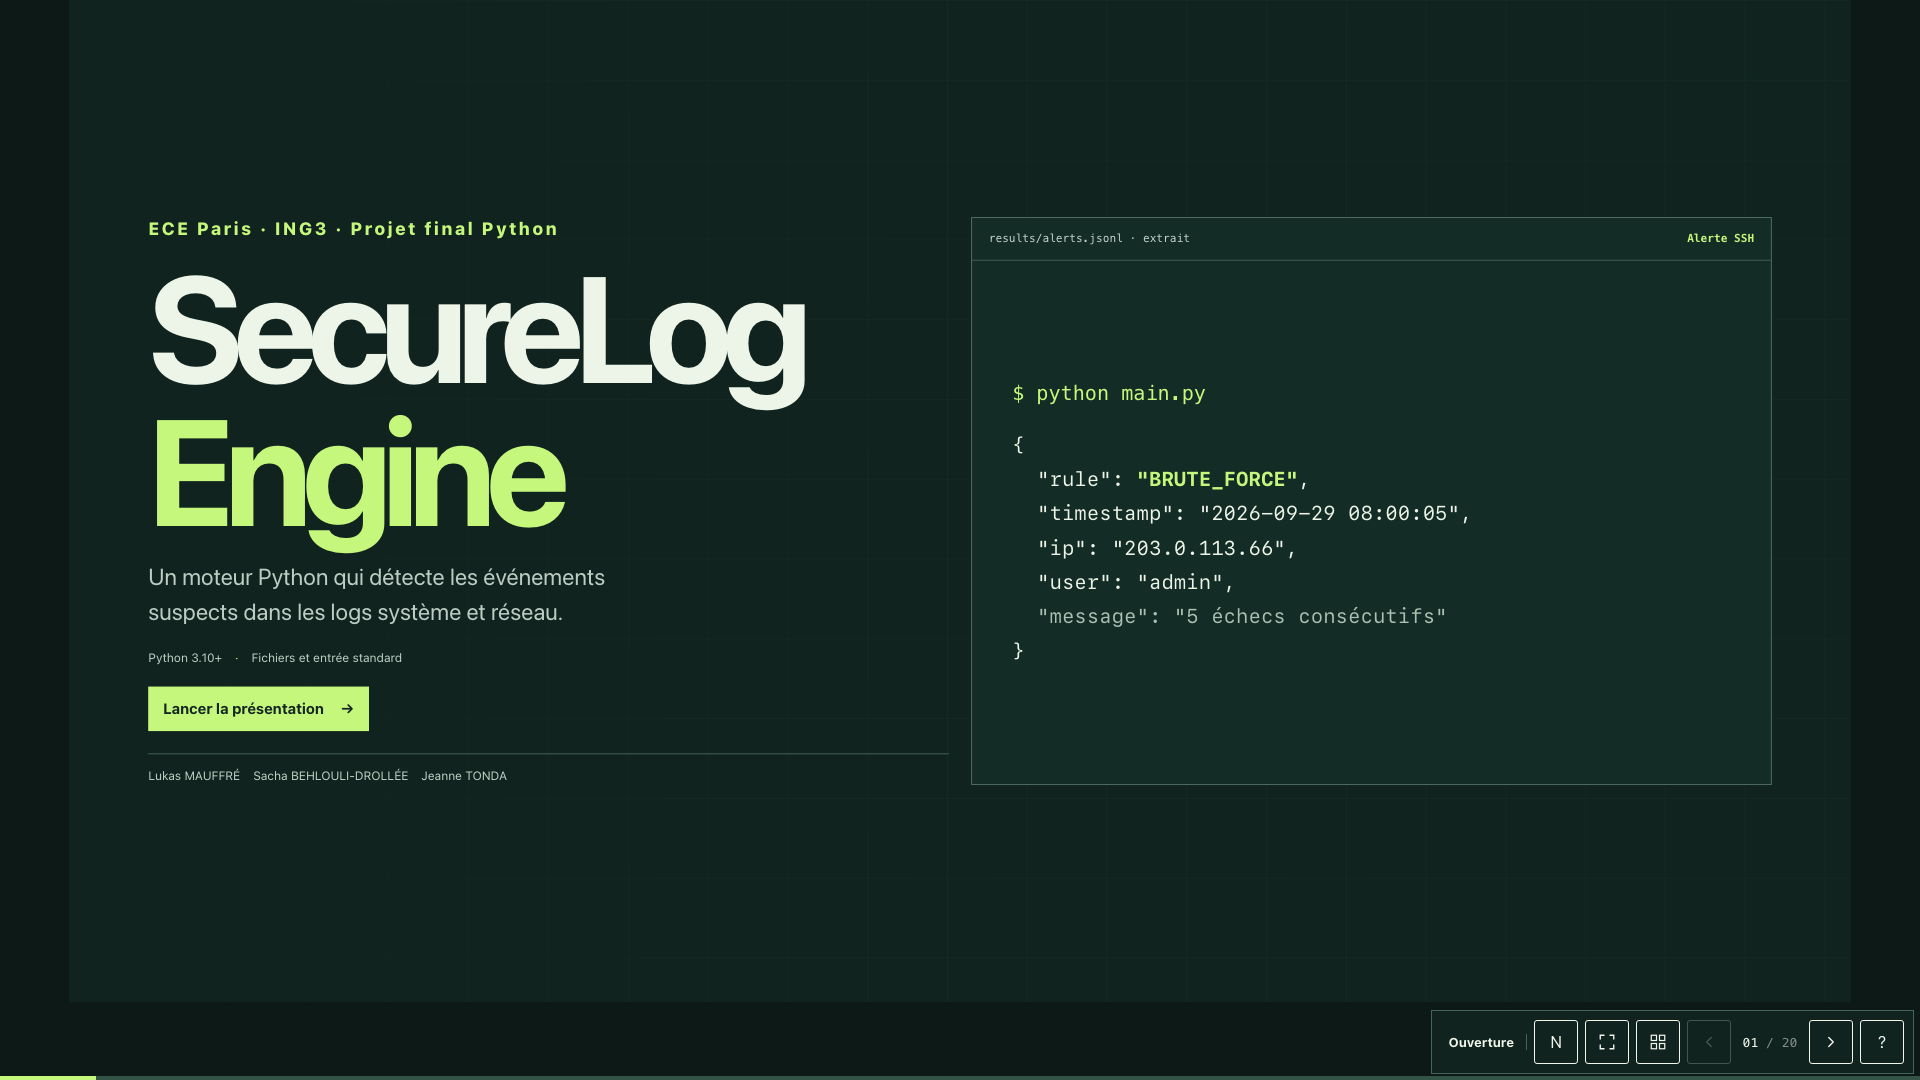
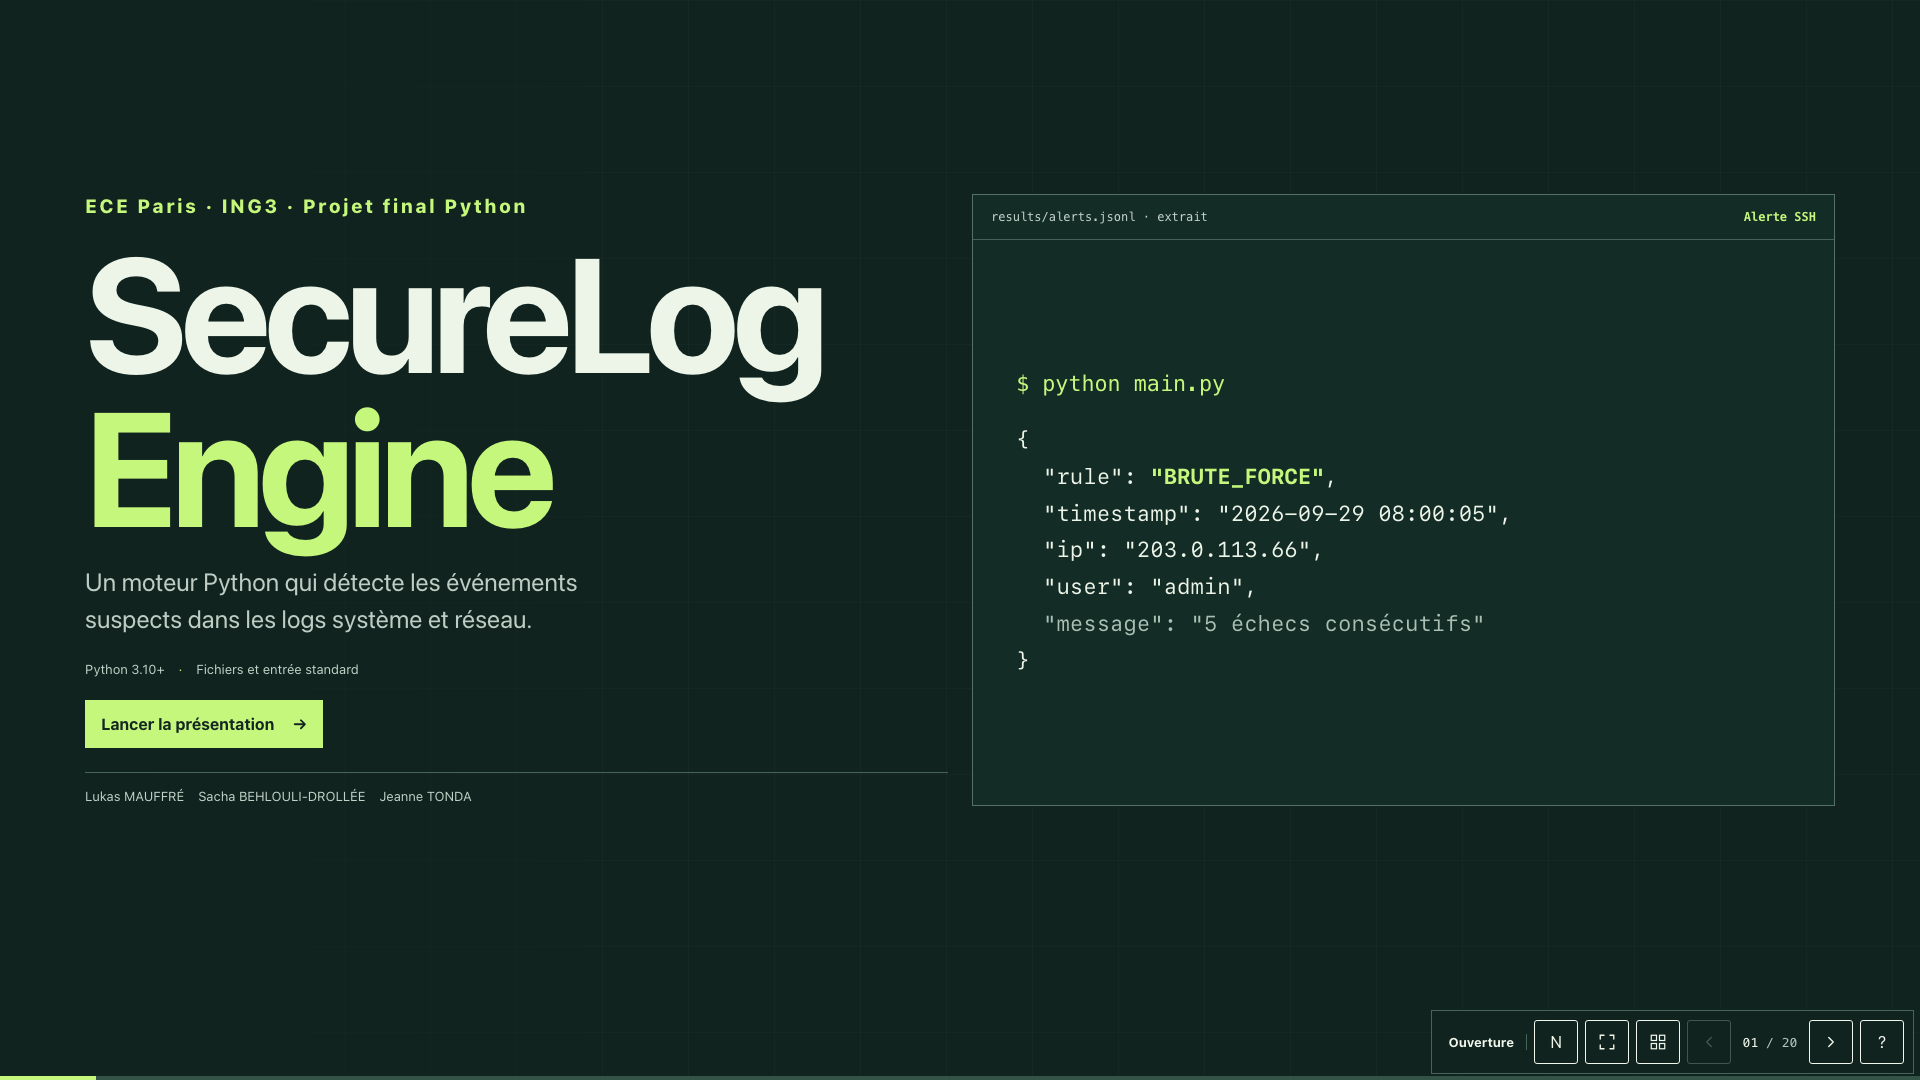
style: improve numeric legibility for projection

diff --git a/index.html b/index.html
@@ -478,6 +478,52 @@ html[data-motion] :is(.primary-action, button:not(:disabled)):active { transform
   .demo-fallback { display: block; }
 }
 
+/* Make sequence labels and totals readable from the back of the room. */
+:is(.pipe-index, .rule-count, .challenge-index) {
+  display: inline-grid;
+  place-items: center;
+  width: max-content;
+  min-width: 2.25em;
+  min-height: 1.8em;
+  padding-inline: .35em;
+  border: 1px solid #a6b7a8;
+  background: #dce7da;
+  color: #264538;
+  font: 750 19px/1 ui-monospace, monospace;
+}
+.dark :is(.pipe-index, .rule-count) {
+  border-color: #627e6e;
+  background: #203d32;
+  color: var(--lime);
+}
+.dark .pipe-final .pipe-index {
+  border-color: #7fa657;
+  background: #e1f9c8;
+  color: #264538;
+}
+.rules-grid > div { grid-template-columns: 48px minmax(0, 1fr); }
+.mode-number, .output-badge { font-size: 16px; letter-spacing: .075em; }
+.output-badge, .roadmap-layout b { color: #385645; }
+.roadmap-layout b { font: 700 18px/1.3 ui-monospace, monospace; }
+.challenge { padding: 25px 30px; }
+.challenge h3 { margin-block: 14px 8px; }
+.slide .challenge .solution { font-size: 18px; }
+.slide :is(.result-strip strong, .mega-test, .venn-big, .set-operators span,
+  .mem-value, .mem-columns b, .demo-count b, .result-bar b),
+.nav-current, .overview-item small {
+  font-variant-numeric: lining-nums tabular-nums;
+}
+.slide .headline, .closing-title { letter-spacing: -.035em; }
+.cover-title { letter-spacing: -.04em; }
+.result-strip strong, .mega-test, .venn-big, .mem-aside > strong { letter-spacing: -.015em; }
+.rule-count { align-self: center; }
+.demo-count { font-size: 17px; }
+.demo-count b { font-size: 34px; letter-spacing: -.02em; white-space: nowrap; }
+.demo-streak { font-size: 17px; }
+.demo-streak li { min-height: 40px; font-size: 18px; }
+.nav-current span { opacity: 1; color: var(--muted); }
+.dark-context .nav-current span { color: #b3c6bd; }
+
 /* Scale the layout before painting. The controls remain outside the canvas. */
 @media screen {
   .app:has(#deck[data-canvas]) { display: grid; place-items: center; }

diff --git a/VALIDATION.md b/VALIDATION.md
@@ -94,14 +94,21 @@ sans défilement et reste dégagé des commandes à 2560×1440, 1920×1080,
 ### Canevas 16:9 fixe
 
 Chaque diapositive utilise les mêmes dimensions logiques de 1920×1080.
-Le navigateur met le canevas entier à l’échelle dans la zone disponible
-au-dessus des commandes. Les marges autour du canevas absorbent les
-différences de ratio entre fenêtres. Le sommaire, l’aide, la navigation
-et la progression conservent leur propre mise en page.
+Le navigateur dimensionne le canevas par le zoom de mise en page CSS,
+sans transformation de mise à l’échelle permanente. Un écran 16:9 est
+rempli bord à bord. Sur un autre ratio, les marges reprennent le fond de la
+diapositive active. Le sommaire, l’aide, la navigation et la progression
+conservent leur propre mise en page.
 
 Dans Chrome, les 20 diapositives ont été vérifiées sur neuf tailles de
-fenêtre de 320×640 à 2560×1440. Le ratio, les dimensions de composition
-et la typographie des titres restent identiques. La navigation au clavier,
+fenêtre de 320×640 à 2560×1440. Le ratio et la composition sont conservés,
+avec les arrondis de rendu du navigateur selon l’échelle. La navigation au clavier,
 l’aide, les notes et les huit étapes du rejeu ont été vérifiées.
 Le contrôle de page web sur la hauteur du premier écran est remplacé ici
 par le contrôle du canevas et du dégagement au-dessus des commandes.
+
+Les indices, les compteurs et les chiffres des graphiques ont été repris
+pour la projection, en suivant l’espacement typographique de la présentation
+Larry Fink. Le focus programmatique du diaporama ne dessine plus de contour
+autour des titres. Dans Chrome, le test du raccourci F vérifie l’appel à
+l’API de plein écran et l’absence de contour avec cet appel simulé.
